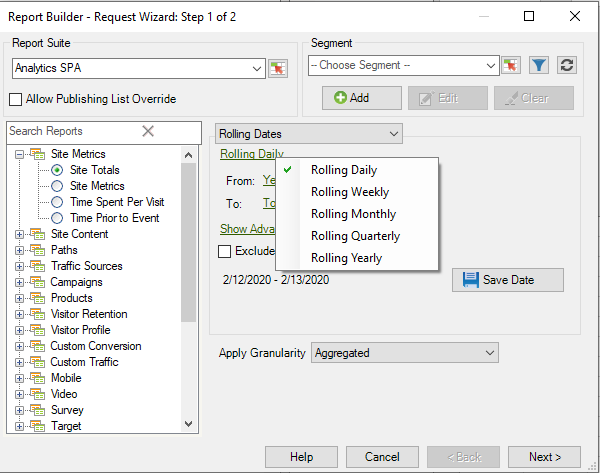
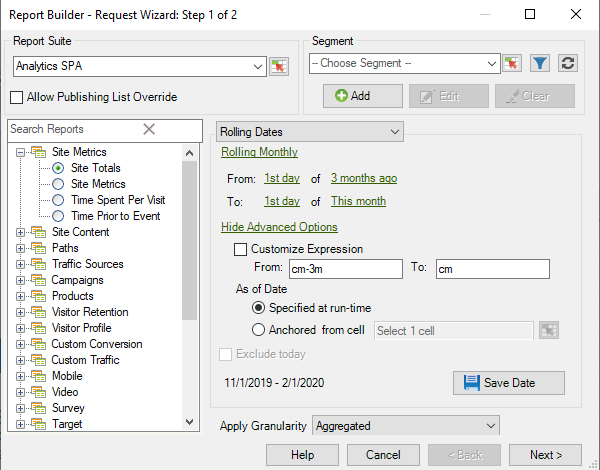
cust. expressions

diff --git a/help/analyze/report-builder/data-requests/configuring-report-dates/c-customized-date-expressions/t-customized-date-expressions.md b/help/analyze/report-builder/data-requests/configuring-report-dates/c-customized-date-expressions/t-customized-date-expressions.md
@@ -13,10 +13,22 @@ It is recommended that you refer to a calendar when building expressions in orde
 
 **To enable custom expressions** 
 
-1. On the [!UICONTROL Request Wizard: Step 1], select **[!UICONTROL Rolling Dates]**.
+1. On the [!UICONTROL Request Wizard: Step 1], instead of using "Preset Dates", select **[!UICONTROL Rolling Dates]**. Notice how the options below change.
 
    ![](assets/rolldates1.png)
 
-1. 
-1. Enable **[!UICONTROL Customize Expression]**.
-1. Type a special expression in the **[!UICONTROL From]** and **[!UICONTROL To]** fields, following the abbreviations, syntax rules, and examples given below.
+1. Switch to rolling weekly, monthly, quarterly, or yearly.
+1. For more customization options, click **[!UICONTROL Show Advanced Options]**. By selecting options in the top section, you can easily see the syntax for custom date expressions.
+
+   ![](assets/rolldates2.png)
+
+1. Enable **[!UICONTROL Customize Expression]**. By selecting options under **[!UICONTROL Rolling Dates]**, you can easily see the syntax for custom date expressions.
+
+   ![](assets/rolldates5.png)
+
+   You can use Advanced Options to mix and match custom date expressions. For example, if you wanted to see data from the first of the year through the end of the last full month they could write the following: From: cy To: cm-1d. You can see that in the wizard, it confirms those dates as being 1/1/2020-1/31/2020.
+
+   For example, If you change the dates above to rolling monthly from the first day three months ago to the first day of this month, the dates in the advance options portion update themselves to reflect that:
+
+   ![](assets/rolldates5.png)
+
